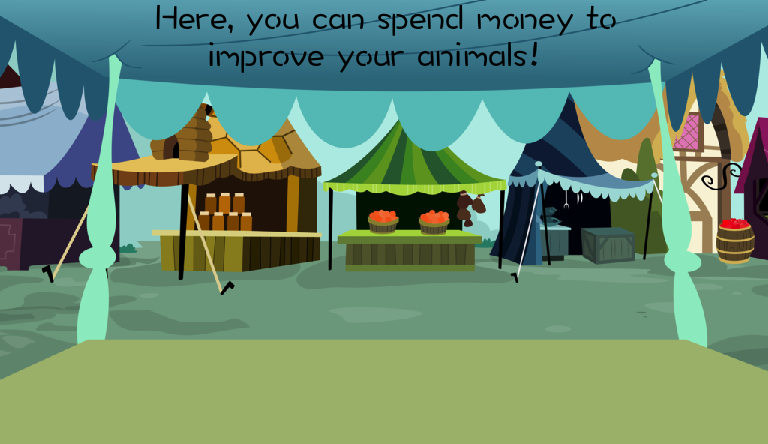
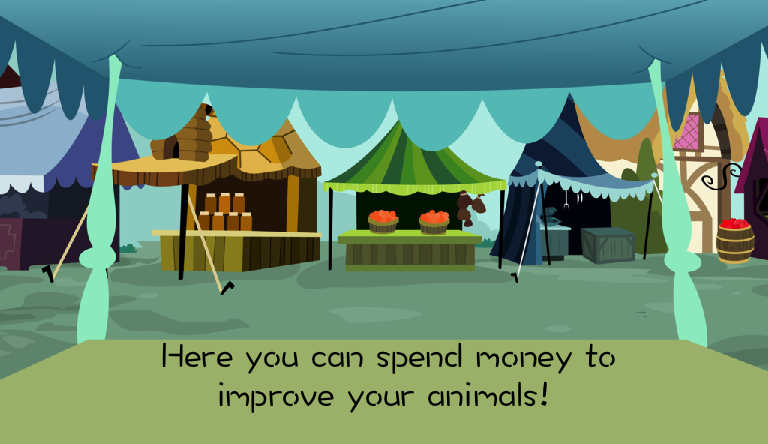
Tutorial text improved

Changed region(s): [[0.1875, 0.0293, 0.8125, 0.1757], [0.1875, 0.7905, 0.8125, 0.8491], [0.2812, 0.8784, 0.7188, 0.9369]]

diff --git a/core/src/com/tgco/animalBook/screens/TutorialScreen.java b/core/src/com/tgco/animalBook/screens/TutorialScreen.java
@@ -300,12 +300,12 @@ public class TutorialScreen extends ButtonScreenAdapter implements Screen {
 			public void touchUp (InputEvent event, float x, float y, int pointer, int button) {
 				SoundHandler.playButtonClick();
 				SoundHandler.pauseBackgroundMusic();
-				gameInstance.setScreen(new TutorialUpgradesScreen(gameInstance,TutorialScreen.this));
 				if (ate) {
 					upgraded = true;
 					//spawn these for the return to game tutorial
 					tutorialWorld.spawnObstacleAndMarket();
 				}
+				gameInstance.setScreen(new TutorialUpgradesScreen(gameInstance,TutorialScreen.this));
 			}
 		});
 

diff --git a/core/src/com/tgco/animalBook/screens/TutorialMarketScreen.java b/core/src/com/tgco/animalBook/screens/TutorialMarketScreen.java
@@ -212,7 +212,7 @@ public class TutorialMarketScreen extends ButtonScreenAdapter implements Screen 
 		playButton = new Button(playButtonStyle);
 		playButton.setWidth(BUTTON_WIDTH);
 		playButton.setHeight(BUTTON_HEIGHT);
-		playButton.setX(EDGE_TOLERANCE);
+		playButton.setX(Gdx.graphics.getWidth() - BUTTON_WIDTH - EDGE_TOLERANCE);
 		playButton.setY(EDGE_TOLERANCE);
 
 		//CURRENT LEVEL ANIMAL BUTTON

diff --git a/core/src/com/tgco/animalBook/gameObjects/Obstacle.java b/core/src/com/tgco/animalBook/gameObjects/Obstacle.java
@@ -18,8 +18,8 @@ public class Obstacle extends ABDrawable {
 	public Obstacle() {
 		super(texturePath);
 		
-		width = 2/3*.185f*Gdx.graphics.getWidth();
-		height = 2/3*.294f*Gdx.graphics.getHeight();
+		width = .123f*Gdx.graphics.getWidth();
+		height = .196f*Gdx.graphics.getHeight();
 		bounds = new Rectangle(position.x - width/2,position.y - height/2,width,height);
 	}
 }
